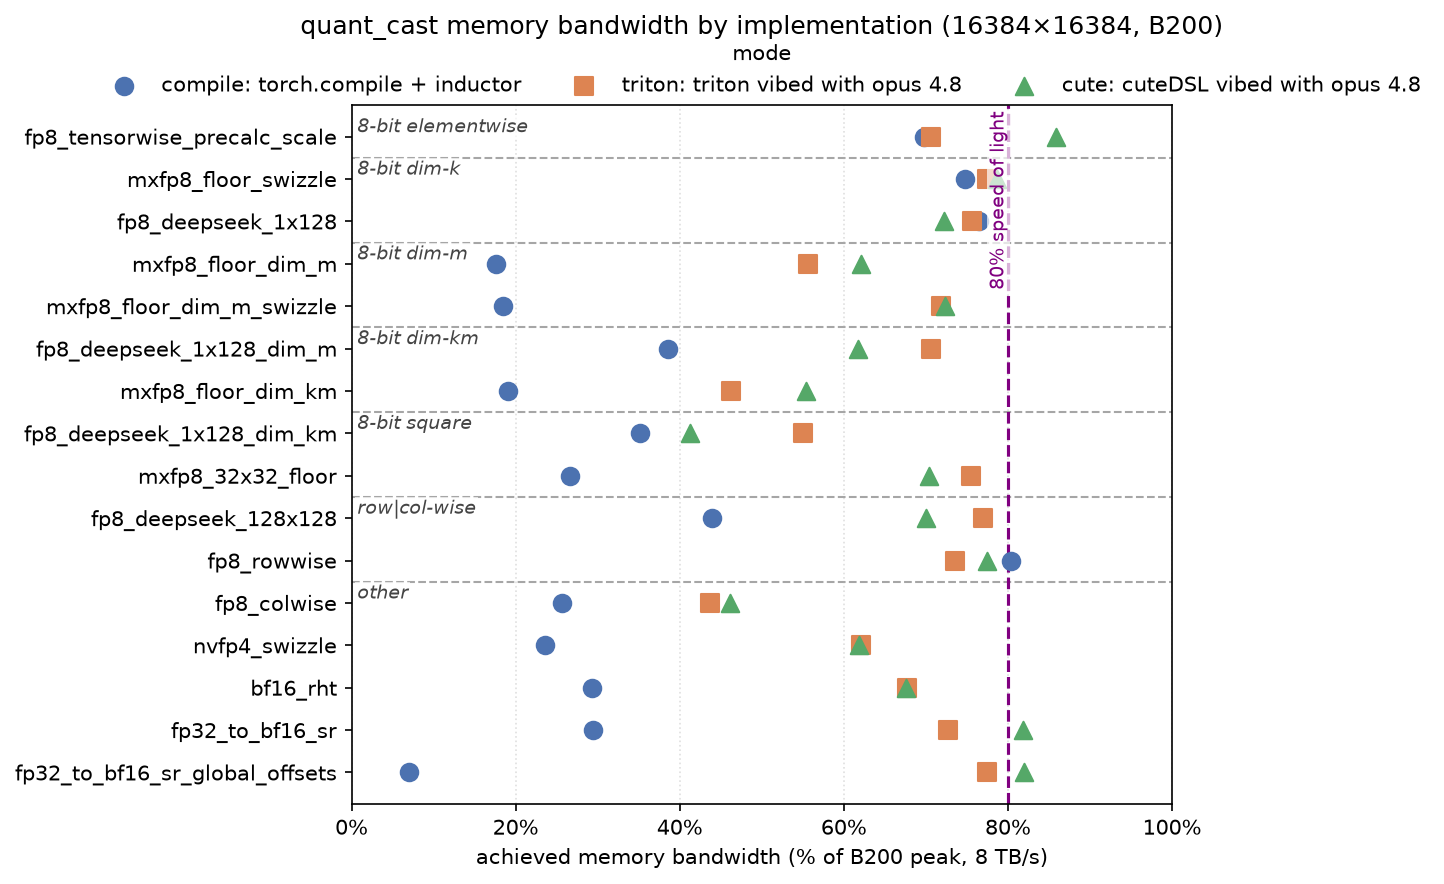
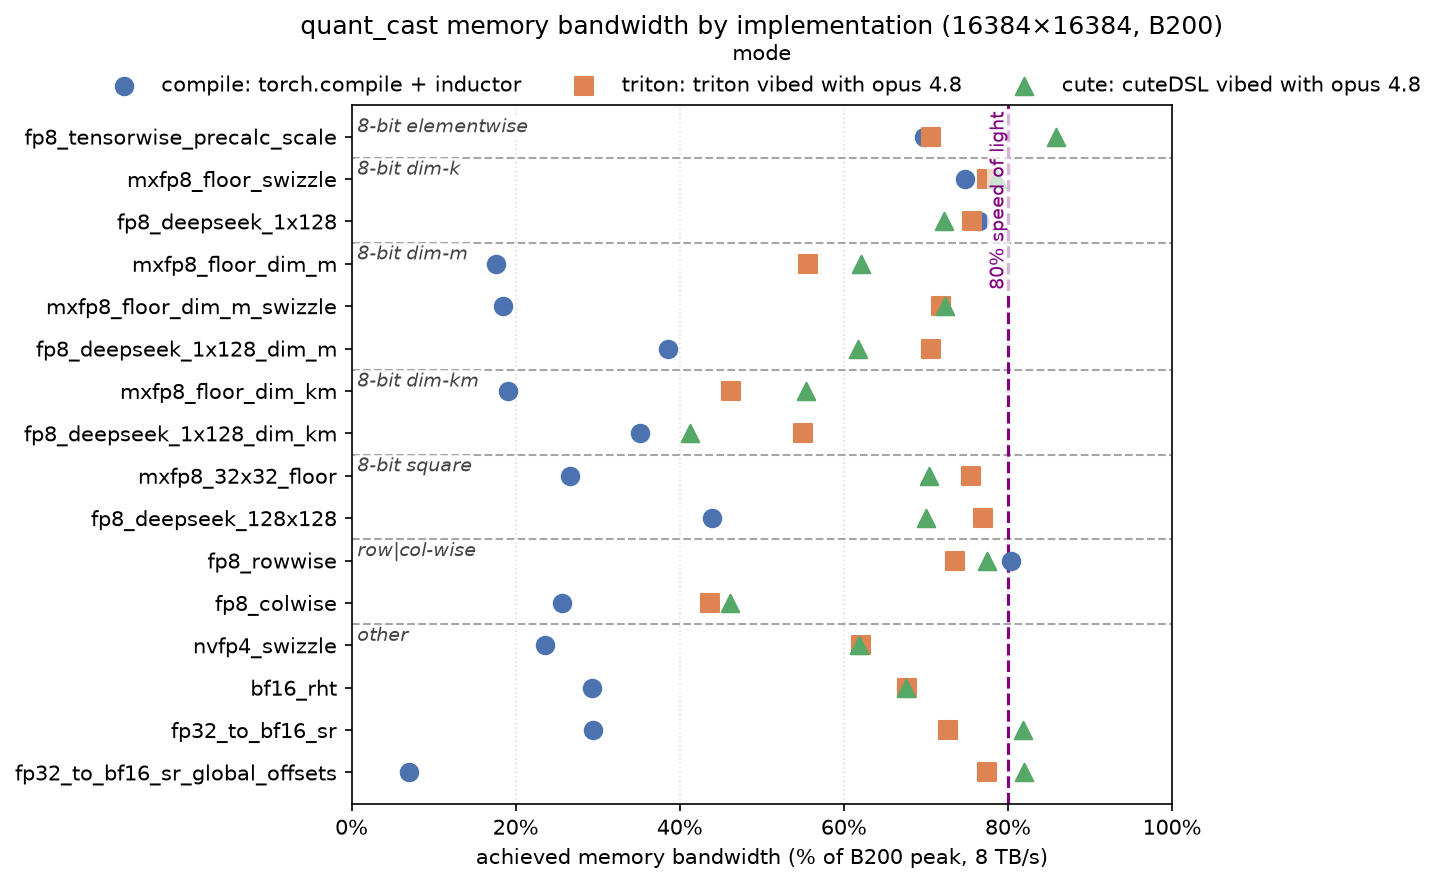
fix chart
Summary:

Test Plan:

diff --git a/benchmarks/plot_bench.py b/benchmarks/plot_bench.py
@@ -41,7 +41,7 @@ _BASELINE = "relu (baseline)"
 _GROUP_SIZES = [
     ("8-bit elementwise", 1),
     ("8-bit dim-k", 2),
-    ("8-bit dim-m", 2),
+    ("8-bit dim-m", 3),
     ("8-bit dim-km", 2),
     ("8-bit square", 2),
     ("row|col-wise", 2),